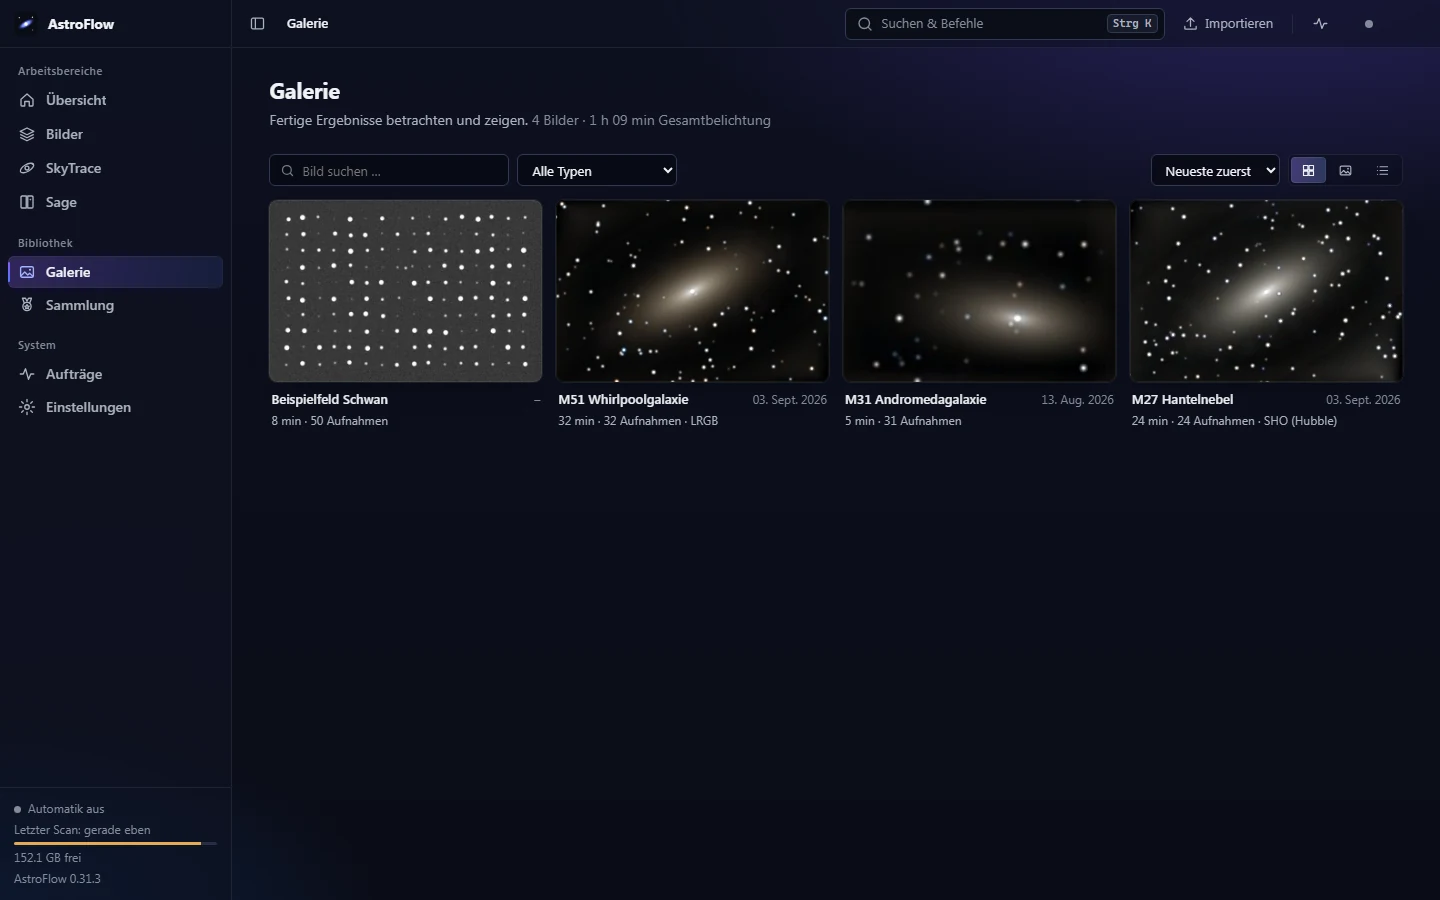
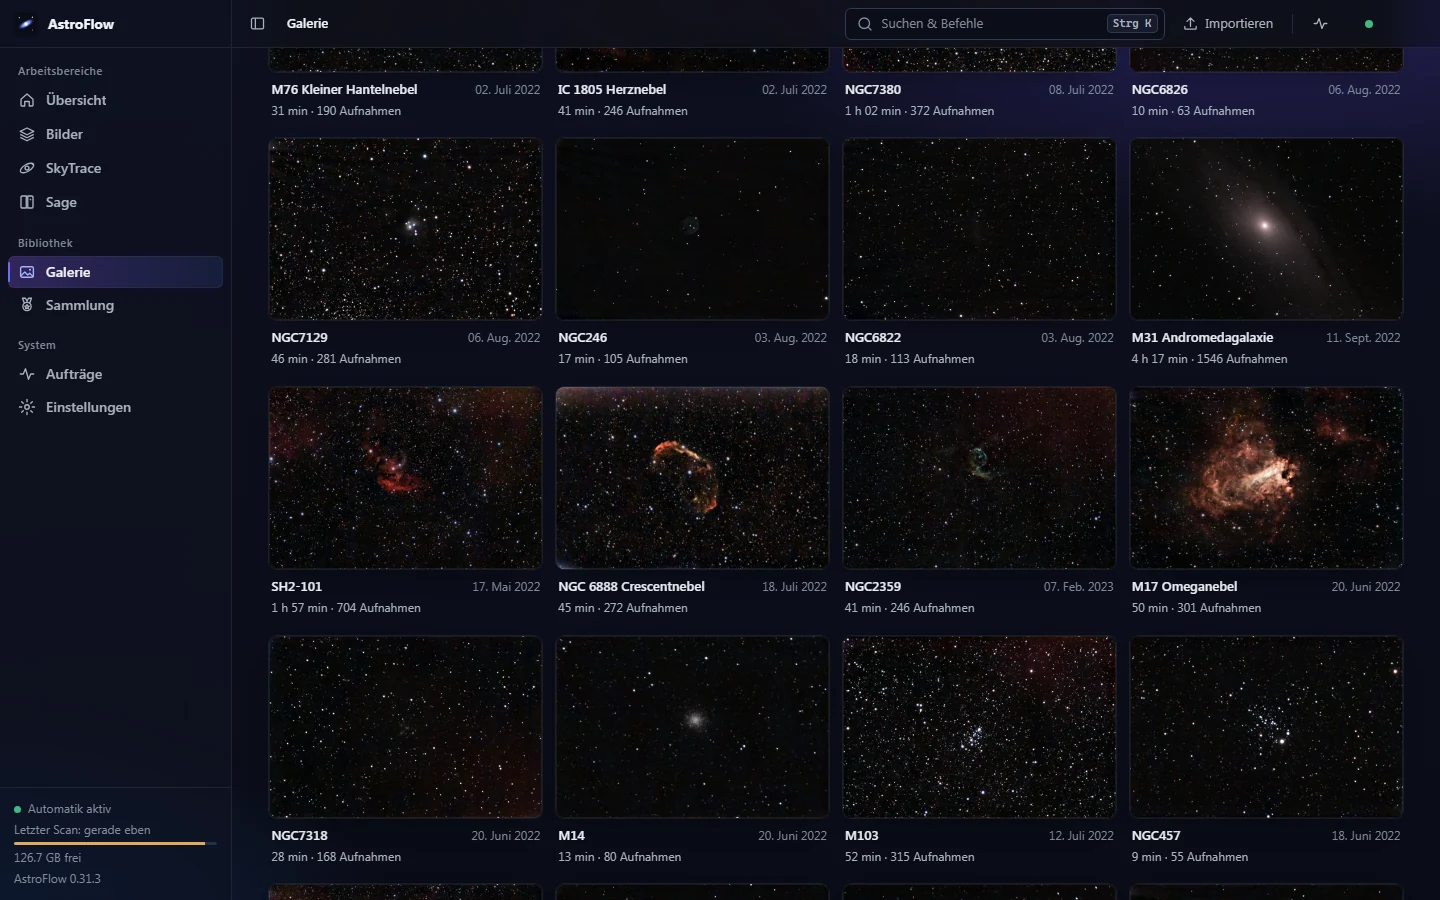
README: echte Astrofotos und Screenshots der Arbeitsinstanz (ohne Standort/Metadaten), Demo nur für Standortansichten

diff --git a/README.md b/README.md
@@ -9,7 +9,7 @@ fotografierte Himmelsobjekte bekommen einen Enzyklopädie-Eintrag. Läuft auf de
 
 ![AstroFlow – Übersicht](docs/screenshots/uebersicht.webp)
 
-*Alle Bilder in dieser README stammen aus einer Demo-Instanz mit synthetischen Daten (`python -m astroflow demo`, Test-Fixtures); Orte und Namen sind erfunden.*
+*Die Astrofotos und die meisten Oberflächen-Screenshots stammen aus einer echten Instanz (Smart-Teleskop, 80 mm Öffnung) und sind ohne Orts- und Gerätekennung veröffentlicht. Nur „Heute Nacht“, „Himmelsqualität“ und die SkyTrace-Bilder zeigen eine Demo-Instanz mit synthetischen Daten (`python -m astroflow demo`, Test-Fixtures), weil sie Standortangaben enthalten.*
 
 ## Was ist AstroFlow?
 
@@ -26,6 +26,17 @@ Die Module sind unter Einstellungen → Module & System einzeln abschaltbar. All
 
 ## Highlights
 
+### Ergebnisse
+
+Fertige Bilder aus AstroFlow, vollautomatisch aus Rohaufnahmen eines Smart-Teleskops entwickelt (verkleinert):
+
+| | | |
+|---|---|---|
+| ![NGC 7000](docs/screenshots/ergebnis-ngc7000.webp) | ![NGC 6888](docs/screenshots/ergebnis-ngc6888.webp) | ![Plejaden](docs/screenshots/ergebnis-m45.webp) |
+| NGC 7000, 58 min | NGC 6888, 45 min | M45 Plejaden, 91 min |
+| ![M101](docs/screenshots/ergebnis-m101.webp) | ![NGC 7023](docs/screenshots/ergebnis-ngc7023.webp) | ![IC 1396](docs/screenshots/ergebnis-ic1396.webp) |
+| M101, 115 min | NGC 7023, 3 h 58 min | IC 1396, 60 min |
+
 ### Vom Rohbild zum fertigen Foto
 
 ![Galerie](docs/screenshots/galerie.webp)
@@ -36,7 +47,7 @@ Header, Ordnername oder Plate-Solving. Neue Nächte werden nachgestackt, jede Ve
 | | |
 |---|---|
 | ![Objektseite](docs/screenshots/objekt.webp) | ![Vorher/Nachher](docs/screenshots/vorher-nachher.webp) |
-| **Objektseite:** Zoom-Betrachter, Kennzahlen, Details. Beim Stacken und Entwickeln zeigt die **Live-Ansicht** echte Zwischenvorschauen mit dem aktiven Schritt; der **Stacking-Verlauf** zeigt, was 1, 3, 10, 30, 100 … Aufnahmen ausmachen. | **Vorher/Nachher:** links der unbearbeitete lineare Master-Stack, rechts das entwickelte Bild (Gradienten, Farbkalibrierung, optional GraXpert und StarNet). |
+| **Objektseite (M31, 4 h 17 min):** Zoom-Betrachter, Kennzahlen, Details. Beim Stacken und Entwickeln zeigt die **Live-Ansicht** echte Zwischenvorschauen mit dem aktiven Schritt; der **Stacking-Verlauf** unter dem Bild zeigt, was 1, 3, 10, 30, 100 … Aufnahmen ausmachen. | **Vorher/Nachher:** links der unbearbeitete lineare Master-Stack, rechts das entwickelte Bild (Gradienten, Farbkalibrierung, optional GraXpert und StarNet). |
 
 ### Was dein Bild zeigt
 
@@ -47,9 +58,20 @@ Der Reiter **Analyse** misst aus dem plate-gelösten Bild die Grenzgröße, die 
 Bild und als **3D-Ansicht** direkt im Betrachter. Der **Vergleich** blinkt das Bild gegen eine frühere eigene Aufnahme oder die
 DSS2-Durchmusterung; auffällige Stellen werden mit SIMBAD und JPL-Kleinkörpern abgeglichen – als Hinweis, nicht als Entdeckung.
 Dazu kommen die **Himmelsqualität der Aufnahmenacht** und der **Bild-Tutor** (Befunde mit Tipps passend zum Gerät, Bedingungen der Nacht).
-(Das Bild oben zeigt ein synthetisches Sternfeld mit Gaia-/SIMBAD-Attrappen.)
+
+![3D-Ansicht der Entfernungen](docs/screenshots/analyse-3d.webp)
+
+Die 3D-Ansicht (Knopf „3D“ im Betrachter) legt die Sterne und Galaxien des Bildes nach ihrer Entfernung in einen Tunnel – hier M31 mit Sternen aus Gaia.
+
+### Kometenmodus
+
+![Komet C/2022 E3](docs/screenshots/komet.webp)
+
+Kometen bekommen zwei Stacks – auf die Sterne und auf den Kometenkern – und werden zu einem Bild zusammengesetzt (hier C/2022 E3, 47 min, Bahn aus der JPL-Ephemeride, im Bild nachgemessen).
 
 ### Heute Nacht und Himmelsqualität
+
+*(Demo-Daten mit erfundenem Ort.)*
 
 | | |
 |---|---|
@@ -63,6 +85,8 @@ Standard-Ort). Der Ort einer Aufnahme ergibt sich aus FITS-Kopf → Zeitraum →
 Er fließt in Tutor, Heute Nacht, Himmelsqualität und SkyTrace ein.
 
 ### SkyTrace – was sich zwischen den Sternen bewegt
+
+*(Demo-Daten mit erfundenem Ort und erfundener Bahn.)*
 
 ![SkyTrace 3D](docs/screenshots/skytrace-3d.webp)
 
